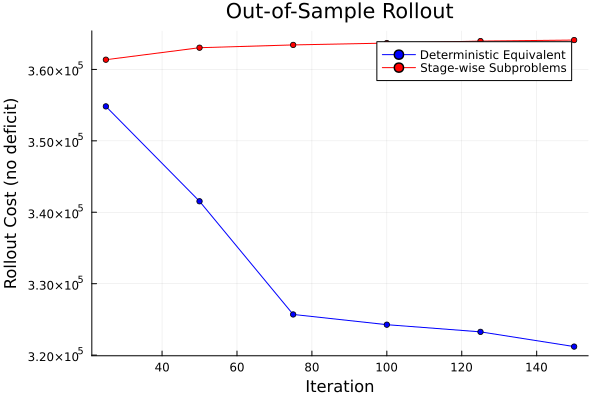
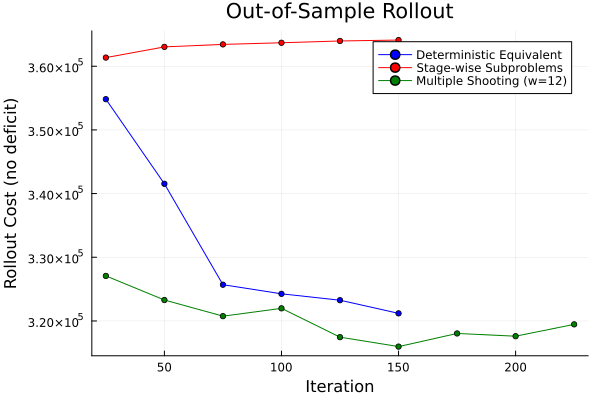
build based on e169115

diff --git a/dev/algorithm/index.html b/dev/algorithm/index.html
@@ -11,4 +11,4 @@
     pass realized end-state to window k+1</code></pre><p><strong>Pros</strong>: balances coupling (within windows) with tractability; parallelizable windows. <strong>Cons</strong>: continuity gaps between windows require penalty tuning.</p><h2 id="Penalty-annealing"><a class="docs-heading-anchor" href="#Penalty-annealing">Penalty annealing</a><a id="Penalty-annealing-1"></a><a class="docs-heading-anchor-permalink" href="#Penalty-annealing" title="Permalink"></a></h2><p>The target penalty <span>$\lambda$</span> is critical: too small and the optimizer ignores targets (no gradient); too large and the problem becomes ill-conditioned. DecisionRules.jl supports a <strong>penalty annealing schedule</strong> that ramps <span>$\lambda$</span> during training:</p><pre><code class="nohighlight hljs">Phase 1 (warmup):  λ × 0.1   — let the policy explore
 Phase 2 (nominal): λ × 1.0   — standard training
 Phase 3 (tighten): λ × 10.0  — sharpen target tracking
-Phase 4 (lock):    λ × 30.0  — final precision</code></pre><p>This is the <code>default_annealed</code> schedule, activated with <code>penalty_schedule=:default_annealed</code>.</p><h2 id="Evaluation-semantics"><a class="docs-heading-anchor" href="#Evaluation-semantics">Evaluation semantics</a><a id="Evaluation-semantics-1"></a><a class="docs-heading-anchor-permalink" href="#Evaluation-semantics" title="Permalink"></a></h2><p>A policy trained on the deterministic equivalent generates targets using <strong>target-state feedback</strong> (each target depends on the previous <em>predicted</em> target, not the realized state). Evaluating such a policy with <strong>realized-state feedback</strong> (deployment semantics) tests a different closed-loop path and will generally report higher cost.</p><p><a href="../api/#DecisionRules.RolloutEvaluation"><code>RolloutEvaluation</code></a> supports both modes via the <code>policy_state</code> keyword:</p><ul><li><code>:target</code> — matches DE training semantics (fair in-sample comparator)</li><li><code>:realized</code> — deployment/closed-loop semantics (the true test)</li></ul><p>The <strong>target-violation share</strong> measures how much of the rollout objective comes from the slack penalty rather than operational cost. A small share (≤ 5%) means the policy&#39;s targets are followable stage-by-stage; a large share signals that the coupled DE solve was absorbing infeasible targets through slack.</p></article><nav class="docs-footer"><a class="docs-footer-prevpage" href="../">« Home</a><a class="docs-footer-nextpage" href="../examples/hydro/">Hydropower Scheduling »</a><div class="flexbox-break"></div><p class="footer-message">Powered by <a href="https://github.com/JuliaDocs/Documenter.jl">Documenter.jl</a> and the <a href="https://julialang.org/">Julia Programming Language</a>.</p></nav></div><div class="modal" id="documenter-settings"><div class="modal-background"></div><div class="modal-card"><header class="modal-card-head"><p class="modal-card-title">Settings</p><button class="delete"></button></header><section class="modal-card-body"><p><label class="label">Theme</label><div class="select"><select id="documenter-themepicker"><option value="auto">Automatic (OS)</option><option value="documenter-light">documenter-light</option><option value="documenter-dark">documenter-dark</option><option value="catppuccin-latte">catppuccin-latte</option><option value="catppuccin-frappe">catppuccin-frappe</option><option value="catppuccin-macchiato">catppuccin-macchiato</option><option value="catppuccin-mocha">catppuccin-mocha</option></select></div></p><hr/><p>This document was generated with <a href="https://github.com/JuliaDocs/Documenter.jl">Documenter.jl</a> version 1.17.0 on <span class="colophon-date" title="Tuesday 16 June 2026 21:04">Tuesday 16 June 2026</span>. Using Julia version 1.10.11.</p></section><footer class="modal-card-foot"></footer></div></div></div></body></html>
+Phase 4 (lock):    λ × 30.0  — final precision</code></pre><p>This is the <code>default_annealed</code> schedule, activated with <code>penalty_schedule=:default_annealed</code>.</p><h2 id="Evaluation-semantics"><a class="docs-heading-anchor" href="#Evaluation-semantics">Evaluation semantics</a><a id="Evaluation-semantics-1"></a><a class="docs-heading-anchor-permalink" href="#Evaluation-semantics" title="Permalink"></a></h2><p>A policy trained on the deterministic equivalent generates targets using <strong>target-state feedback</strong> (each target depends on the previous <em>predicted</em> target, not the realized state). Evaluating such a policy with <strong>realized-state feedback</strong> (deployment semantics) tests a different closed-loop path and will generally report higher cost.</p><p><a href="../api/#DecisionRules.RolloutEvaluation"><code>RolloutEvaluation</code></a> supports both modes via the <code>policy_state</code> keyword:</p><ul><li><code>:target</code> — matches DE training semantics (fair in-sample comparator)</li><li><code>:realized</code> — deployment/closed-loop semantics (the true test)</li></ul><p>The <strong>target-violation share</strong> measures how much of the rollout objective comes from the slack penalty rather than operational cost. A small share (≤ 5%) means the policy&#39;s targets are followable stage-by-stage; a large share signals that the coupled DE solve was absorbing infeasible targets through slack.</p></article><nav class="docs-footer"><a class="docs-footer-prevpage" href="../">« Home</a><a class="docs-footer-nextpage" href="../examples/hydro/">Hydropower Scheduling »</a><div class="flexbox-break"></div><p class="footer-message">Powered by <a href="https://github.com/JuliaDocs/Documenter.jl">Documenter.jl</a> and the <a href="https://julialang.org/">Julia Programming Language</a>.</p></nav></div><div class="modal" id="documenter-settings"><div class="modal-background"></div><div class="modal-card"><header class="modal-card-head"><p class="modal-card-title">Settings</p><button class="delete"></button></header><section class="modal-card-body"><p><label class="label">Theme</label><div class="select"><select id="documenter-themepicker"><option value="auto">Automatic (OS)</option><option value="documenter-light">documenter-light</option><option value="documenter-dark">documenter-dark</option><option value="catppuccin-latte">catppuccin-latte</option><option value="catppuccin-frappe">catppuccin-frappe</option><option value="catppuccin-macchiato">catppuccin-macchiato</option><option value="catppuccin-mocha">catppuccin-mocha</option></select></div></p><hr/><p>This document was generated with <a href="https://github.com/JuliaDocs/Documenter.jl">Documenter.jl</a> version 1.17.0 on <span class="colophon-date" title="Tuesday 16 June 2026 21:41">Tuesday 16 June 2026</span>. Using Julia version 1.10.11.</p></section><footer class="modal-card-foot"></footer></div></div></div></body></html>

diff --git a/dev/examples/hydro/index.html b/dev/examples/hydro/index.html
@@ -61,4 +61,4 @@ using Statistics, Random</code></pre><p>Load the problem builder (reads MOF + hy
 # rollout_eval(1, models)
 # println(&quot;Operational cost: &quot;, rollout_eval.last_objective_no_deficit)
 # println(&quot;Violation share:  &quot;, rollout_eval.last_violation_share)
-# ```</code></pre><h2 id="Results"><a class="docs-heading-anchor" href="#Results">Results</a><a id="Results-1"></a><a class="docs-heading-anchor-permalink" href="#Results" title="Permalink"></a></h2><p>The plots below compare all three training formulations on the Bolivia case. Training curves, out-of-sample cost distributions, and reservoir trajectories are generated from full training runs (20 epochs × 100 batches each).</p><p><img src="../../assets/hydro_training_convergence.png" alt="Training convergence"/></p><p><img src="../../assets/hydro_cost_comparison.png" alt="Out-of-sample cost comparison"/></p><p><img src="../assets/hydro_trajectories.png" alt="Reservoir trajectories"/></p><table><tr><th style="text-align: left">Method</th><th style="text-align: right">Mean Cost</th><th style="text-align: right">Std</th><th style="text-align: right">Violation %</th><th style="text-align: right">Train Time</th></tr><tr><td style="text-align: left">Deterministic Equivalent</td><td style="text-align: right">—</td><td style="text-align: right">—</td><td style="text-align: right">—</td><td style="text-align: right">—</td></tr><tr><td style="text-align: left">Stage-wise Subproblems</td><td style="text-align: right">—</td><td style="text-align: right">—</td><td style="text-align: right">—</td><td style="text-align: right">—</td></tr><tr><td style="text-align: left">Multiple Shooting</td><td style="text-align: right">—</td><td style="text-align: right">—</td><td style="text-align: right">—</td><td style="text-align: right">—</td></tr><tr><td style="text-align: left">Constant policy (baseline)</td><td style="text-align: right">—</td><td style="text-align: right">—</td><td style="text-align: right">—</td><td style="text-align: right">—</td></tr></table><p><em>Table values will be filled from W&amp;B logs after full training runs complete.</em></p></article><nav class="docs-footer"><a class="docs-footer-prevpage" href="../../algorithm/">« Algorithm</a><a class="docs-footer-nextpage" href="../rocket/">Rocket Control »</a><div class="flexbox-break"></div><p class="footer-message">Powered by <a href="https://github.com/JuliaDocs/Documenter.jl">Documenter.jl</a> and the <a href="https://julialang.org/">Julia Programming Language</a>.</p></nav></div><div class="modal" id="documenter-settings"><div class="modal-background"></div><div class="modal-card"><header class="modal-card-head"><p class="modal-card-title">Settings</p><button class="delete"></button></header><section class="modal-card-body"><p><label class="label">Theme</label><div class="select"><select id="documenter-themepicker"><option value="auto">Automatic (OS)</option><option value="documenter-light">documenter-light</option><option value="documenter-dark">documenter-dark</option><option value="catppuccin-latte">catppuccin-latte</option><option value="catppuccin-frappe">catppuccin-frappe</option><option value="catppuccin-macchiato">catppuccin-macchiato</option><option value="catppuccin-mocha">catppuccin-mocha</option></select></div></p><hr/><p>This document was generated with <a href="https://github.com/JuliaDocs/Documenter.jl">Documenter.jl</a> version 1.17.0 on <span class="colophon-date" title="Tuesday 16 June 2026 21:04">Tuesday 16 June 2026</span>. Using Julia version 1.10.11.</p></section><footer class="modal-card-foot"></footer></div></div></div></body></html>
+# ```</code></pre><h2 id="Results"><a class="docs-heading-anchor" href="#Results">Results</a><a id="Results-1"></a><a class="docs-heading-anchor-permalink" href="#Results" title="Permalink"></a></h2><p>The plots below compare all three training formulations on the Bolivia case. Training curves, out-of-sample cost distributions, and reservoir trajectories are generated from full training runs (20 epochs × 100 batches each).</p><p><img src="../../assets/hydro_training_convergence.png" alt="Training convergence"/></p><p><img src="../../assets/hydro_cost_comparison.png" alt="Out-of-sample cost comparison"/></p><p><img src="../assets/hydro_trajectories.png" alt="Reservoir trajectories"/></p><table><tr><th style="text-align: left">Method</th><th style="text-align: right">Mean Cost</th><th style="text-align: right">Std</th><th style="text-align: right">Violation %</th><th style="text-align: right">Train Time</th></tr><tr><td style="text-align: left">Deterministic Equivalent</td><td style="text-align: right">—</td><td style="text-align: right">—</td><td style="text-align: right">—</td><td style="text-align: right">—</td></tr><tr><td style="text-align: left">Stage-wise Subproblems</td><td style="text-align: right">—</td><td style="text-align: right">—</td><td style="text-align: right">—</td><td style="text-align: right">—</td></tr><tr><td style="text-align: left">Multiple Shooting</td><td style="text-align: right">—</td><td style="text-align: right">—</td><td style="text-align: right">—</td><td style="text-align: right">—</td></tr><tr><td style="text-align: left">Constant policy (baseline)</td><td style="text-align: right">—</td><td style="text-align: right">—</td><td style="text-align: right">—</td><td style="text-align: right">—</td></tr></table><p><em>Table values will be filled from W&amp;B logs after full training runs complete.</em></p></article><nav class="docs-footer"><a class="docs-footer-prevpage" href="../../algorithm/">« Algorithm</a><a class="docs-footer-nextpage" href="../rocket/">Rocket Control »</a><div class="flexbox-break"></div><p class="footer-message">Powered by <a href="https://github.com/JuliaDocs/Documenter.jl">Documenter.jl</a> and the <a href="https://julialang.org/">Julia Programming Language</a>.</p></nav></div><div class="modal" id="documenter-settings"><div class="modal-background"></div><div class="modal-card"><header class="modal-card-head"><p class="modal-card-title">Settings</p><button class="delete"></button></header><section class="modal-card-body"><p><label class="label">Theme</label><div class="select"><select id="documenter-themepicker"><option value="auto">Automatic (OS)</option><option value="documenter-light">documenter-light</option><option value="documenter-dark">documenter-dark</option><option value="catppuccin-latte">catppuccin-latte</option><option value="catppuccin-frappe">catppuccin-frappe</option><option value="catppuccin-macchiato">catppuccin-macchiato</option><option value="catppuccin-mocha">catppuccin-mocha</option></select></div></p><hr/><p>This document was generated with <a href="https://github.com/JuliaDocs/Documenter.jl">Documenter.jl</a> version 1.17.0 on <span class="colophon-date" title="Tuesday 16 June 2026 21:41">Tuesday 16 June 2026</span>. Using Julia version 1.10.11.</p></section><footer class="modal-card-foot"></footer></div></div></div></body></html>

diff --git a/dev/examples/rocket/index.html b/dev/examples/rocket/index.html
@@ -28,4 +28,4 @@ using Statistics, Random</code></pre><h2 id="Building-the-problem"><a class="doc
 #     policy, x0_s, subproblems, state_in_s, state_out_s, uncertainty_s;
 #     num_batches=10, optimizer=Flux.Adam(),
 # )
-# ```</code></pre><h2 id="MPC-Baseline"><a class="docs-heading-anchor" href="#MPC-Baseline">MPC Baseline</a><a id="MPC-Baseline-1"></a><a class="docs-heading-anchor-permalink" href="#MPC-Baseline" title="Permalink"></a></h2><p>The rolling-horizon MPC baseline re-solves the full remaining horizon at each stage with perfect knowledge of the current state but no future wind information. See <code>run_mpc_rocket.jl</code>.</p><h2 id="Results"><a class="docs-heading-anchor" href="#Results">Results</a><a id="Results-1"></a><a class="docs-heading-anchor-permalink" href="#Results" title="Permalink"></a></h2><p>Height trajectories across 10 scenarios for each method:</p><p><img src="../../assets/rocket_height_comparison.png" alt="Height comparison"/></p><table><tr><th style="text-align: left">Method</th><th style="text-align: right">Mean Objective</th><th style="text-align: right">Std</th><th style="text-align: right">Final Height (mean)</th></tr><tr><td style="text-align: left">TS-DDR (DE)</td><td style="text-align: right">—</td><td style="text-align: right">—</td><td style="text-align: right">—</td></tr><tr><td style="text-align: left">TS-DDR (Subproblems)</td><td style="text-align: right">—</td><td style="text-align: right">—</td><td style="text-align: right">—</td></tr><tr><td style="text-align: left">MPC</td><td style="text-align: right">—</td><td style="text-align: right">—</td><td style="text-align: right">—</td></tr></table><p><em>Table values will be filled after full training runs.</em></p></article><nav class="docs-footer"><a class="docs-footer-prevpage" href="../hydro/">« Hydropower Scheduling</a><a class="docs-footer-nextpage" href="../../api/">API Reference »</a><div class="flexbox-break"></div><p class="footer-message">Powered by <a href="https://github.com/JuliaDocs/Documenter.jl">Documenter.jl</a> and the <a href="https://julialang.org/">Julia Programming Language</a>.</p></nav></div><div class="modal" id="documenter-settings"><div class="modal-background"></div><div class="modal-card"><header class="modal-card-head"><p class="modal-card-title">Settings</p><button class="delete"></button></header><section class="modal-card-body"><p><label class="label">Theme</label><div class="select"><select id="documenter-themepicker"><option value="auto">Automatic (OS)</option><option value="documenter-light">documenter-light</option><option value="documenter-dark">documenter-dark</option><option value="catppuccin-latte">catppuccin-latte</option><option value="catppuccin-frappe">catppuccin-frappe</option><option value="catppuccin-macchiato">catppuccin-macchiato</option><option value="catppuccin-mocha">catppuccin-mocha</option></select></div></p><hr/><p>This document was generated with <a href="https://github.com/JuliaDocs/Documenter.jl">Documenter.jl</a> version 1.17.0 on <span class="colophon-date" title="Tuesday 16 June 2026 21:04">Tuesday 16 June 2026</span>. Using Julia version 1.10.11.</p></section><footer class="modal-card-foot"></footer></div></div></div></body></html>
+# ```</code></pre><h2 id="MPC-Baseline"><a class="docs-heading-anchor" href="#MPC-Baseline">MPC Baseline</a><a id="MPC-Baseline-1"></a><a class="docs-heading-anchor-permalink" href="#MPC-Baseline" title="Permalink"></a></h2><p>The rolling-horizon MPC baseline re-solves the full remaining horizon at each stage with perfect knowledge of the current state but no future wind information. See <code>run_mpc_rocket.jl</code>.</p><h2 id="Results"><a class="docs-heading-anchor" href="#Results">Results</a><a id="Results-1"></a><a class="docs-heading-anchor-permalink" href="#Results" title="Permalink"></a></h2><p>Height trajectories across 10 scenarios for each method:</p><p><img src="../../assets/rocket_height_comparison.png" alt="Height comparison"/></p><table><tr><th style="text-align: left">Method</th><th style="text-align: right">Mean Objective</th><th style="text-align: right">Std</th><th style="text-align: right">Final Height (mean)</th></tr><tr><td style="text-align: left">TS-DDR (DE)</td><td style="text-align: right">—</td><td style="text-align: right">—</td><td style="text-align: right">—</td></tr><tr><td style="text-align: left">TS-DDR (Subproblems)</td><td style="text-align: right">—</td><td style="text-align: right">—</td><td style="text-align: right">—</td></tr><tr><td style="text-align: left">MPC</td><td style="text-align: right">—</td><td style="text-align: right">—</td><td style="text-align: right">—</td></tr></table><p><em>Table values will be filled after full training runs.</em></p></article><nav class="docs-footer"><a class="docs-footer-prevpage" href="../hydro/">« Hydropower Scheduling</a><a class="docs-footer-nextpage" href="../../api/">API Reference »</a><div class="flexbox-break"></div><p class="footer-message">Powered by <a href="https://github.com/JuliaDocs/Documenter.jl">Documenter.jl</a> and the <a href="https://julialang.org/">Julia Programming Language</a>.</p></nav></div><div class="modal" id="documenter-settings"><div class="modal-background"></div><div class="modal-card"><header class="modal-card-head"><p class="modal-card-title">Settings</p><button class="delete"></button></header><section class="modal-card-body"><p><label class="label">Theme</label><div class="select"><select id="documenter-themepicker"><option value="auto">Automatic (OS)</option><option value="documenter-light">documenter-light</option><option value="documenter-dark">documenter-dark</option><option value="catppuccin-latte">catppuccin-latte</option><option value="catppuccin-frappe">catppuccin-frappe</option><option value="catppuccin-macchiato">catppuccin-macchiato</option><option value="catppuccin-mocha">catppuccin-mocha</option></select></div></p><hr/><p>This document was generated with <a href="https://github.com/JuliaDocs/Documenter.jl">Documenter.jl</a> version 1.17.0 on <span class="colophon-date" title="Tuesday 16 June 2026 21:41">Tuesday 16 June 2026</span>. Using Julia version 1.10.11.</p></section><footer class="modal-card-foot"></footer></div></div></div></body></html>

diff --git a/dev/index.html b/dev/index.html
@@ -21,4 +21,4 @@ train_multistage(
   author={Rosemberg, Andrew and Street, Alexandre and Vallad{\~a}o, Davi M and Van Hentenryck, Pascal},
   journal={arXiv preprint arXiv:2405.14973},
   year={2024}
-}</code></pre></article><nav class="docs-footer"><a class="docs-footer-nextpage" href="algorithm/">Algorithm »</a><div class="flexbox-break"></div><p class="footer-message">Powered by <a href="https://github.com/JuliaDocs/Documenter.jl">Documenter.jl</a> and the <a href="https://julialang.org/">Julia Programming Language</a>.</p></nav></div><div class="modal" id="documenter-settings"><div class="modal-background"></div><div class="modal-card"><header class="modal-card-head"><p class="modal-card-title">Settings</p><button class="delete"></button></header><section class="modal-card-body"><p><label class="label">Theme</label><div class="select"><select id="documenter-themepicker"><option value="auto">Automatic (OS)</option><option value="documenter-light">documenter-light</option><option value="documenter-dark">documenter-dark</option><option value="catppuccin-latte">catppuccin-latte</option><option value="catppuccin-frappe">catppuccin-frappe</option><option value="catppuccin-macchiato">catppuccin-macchiato</option><option value="catppuccin-mocha">catppuccin-mocha</option></select></div></p><hr/><p>This document was generated with <a href="https://github.com/JuliaDocs/Documenter.jl">Documenter.jl</a> version 1.17.0 on <span class="colophon-date" title="Tuesday 16 June 2026 21:04">Tuesday 16 June 2026</span>. Using Julia version 1.10.11.</p></section><footer class="modal-card-foot"></footer></div></div></div></body></html>
+}</code></pre></article><nav class="docs-footer"><a class="docs-footer-nextpage" href="algorithm/">Algorithm »</a><div class="flexbox-break"></div><p class="footer-message">Powered by <a href="https://github.com/JuliaDocs/Documenter.jl">Documenter.jl</a> and the <a href="https://julialang.org/">Julia Programming Language</a>.</p></nav></div><div class="modal" id="documenter-settings"><div class="modal-background"></div><div class="modal-card"><header class="modal-card-head"><p class="modal-card-title">Settings</p><button class="delete"></button></header><section class="modal-card-body"><p><label class="label">Theme</label><div class="select"><select id="documenter-themepicker"><option value="auto">Automatic (OS)</option><option value="documenter-light">documenter-light</option><option value="documenter-dark">documenter-dark</option><option value="catppuccin-latte">catppuccin-latte</option><option value="catppuccin-frappe">catppuccin-frappe</option><option value="catppuccin-macchiato">catppuccin-macchiato</option><option value="catppuccin-mocha">catppuccin-mocha</option></select></div></p><hr/><p>This document was generated with <a href="https://github.com/JuliaDocs/Documenter.jl">Documenter.jl</a> version 1.17.0 on <span class="colophon-date" title="Tuesday 16 June 2026 21:41">Tuesday 16 June 2026</span>. Using Julia version 1.10.11.</p></section><footer class="modal-card-foot"></footer></div></div></div></body></html>